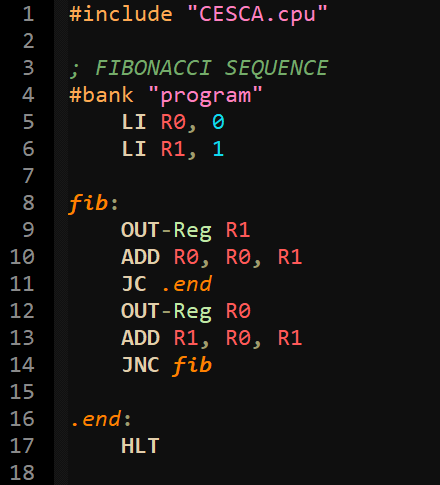
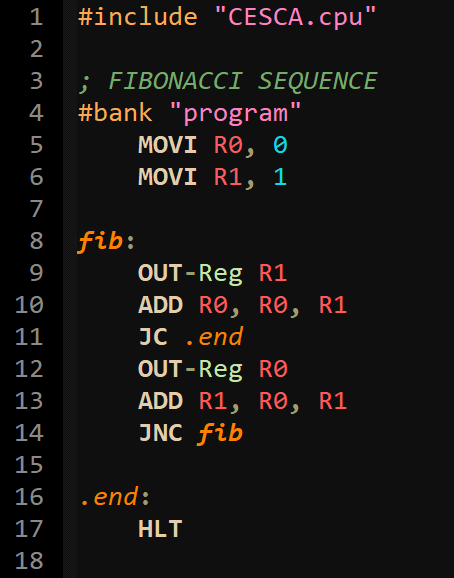
Renamed instructions: MOVE -> MOV and LI -> MOVI

diff --git a/CESC Computer/EEPROM Programmer/Microcode/generate.cc b/CESC Computer/EEPROM Programmer/Microcode/generate.cc
@@ -69,10 +69,10 @@ const vector<unsigned int> TEMPLATE = {
     
     fetch_0,    fetch_1,    Inp|LdTmp|IOp_2,    0,  fetch_2|LdTmp|CtrlAndi|LdFlg,   CLR,    0, 0,           // 001011 - CMP-IN
     
-    fetch_0,    fetch_1,    fetch_2|LdReg,                                          CLR,    0, 0, 0, 0,     // 001100 - LI
-    fetch_0,    fetch_1,    fetch_2|LdReg,                                          CLR,    0, 0, 0, 0,     // 001101 - LI
-    fetch_0,    fetch_1,    fetch_2|LdReg,                                          CLR,    0, 0, 0, 0,     // 001110 - LI
-    fetch_0,    fetch_1,    fetch_2|LdReg,                                          CLR,    0, 0, 0, 0,     // 001111 - LI
+    fetch_0,    fetch_1,    fetch_2|LdReg,                                          CLR,    0, 0, 0, 0,     // 001100 - MOVI
+    fetch_0,    fetch_1,    fetch_2|LdReg,                                          CLR,    0, 0, 0, 0,     // 001101 - MOVI
+    fetch_0,    fetch_1,    fetch_2|LdReg,                                          CLR,    0, 0, 0, 0,     // 001110 - MOVI
+    fetch_0,    fetch_1,    fetch_2|LdReg,                                          CLR,    0, 0, 0, 0,     // 001111 - MOVI
     
     fetch_0,    fetch_1,    Inp|LdReg,  0,                                          CLR,    0, 0, 0,        // 010000 - IN
     fetch_0,    fetch_1,    Inp|LdReg,  0,                                          CLR,    0, 0, 0,        // 010001 - IN
